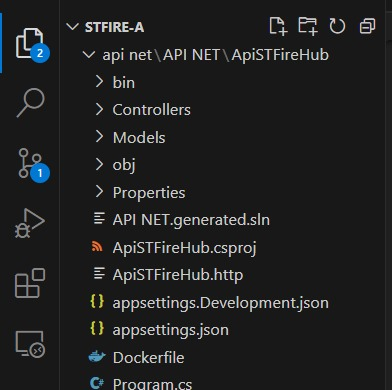
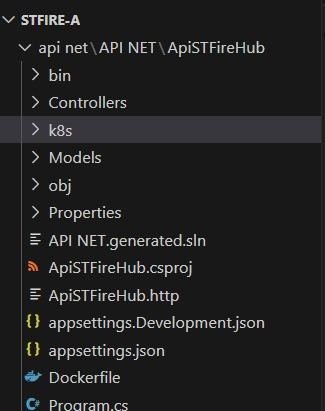
STFireHub Full images api/kubernetess

Changed region(s): [[0.0, 0.0308, 1.0, 0.8], [0.0308, 0.8308, 0.5846, 1.0], [0.0308, 0.5231, 0.1231, 0.8]]

diff --git a/README.md b/README.md
@@ -41,6 +41,7 @@ En el sprint 6 se trabajan con tecnologias como mysql, manejon del framework ang
 Package Pomelo.EntityFrameworkCore.MySql
 Package Microsoft.EntityFrameworkCore.Design
 (install en api antes de comenzar)
+4. En Docker instalar Kubernetes Kubernetes v1.27.2
 
 ## Paquetes de instalacion para api en proyecto:
 - dotnet add package Microsoft.VisualStudio.Web.CodeGeneration.Design
@@ -76,6 +77,11 @@ Para verificar que las rutas que tenemos determinadas por metodos en la API se p
 Imagen creada en Docker, que se ejecuta por medio de la Docker desktop o por medio de la terminal en la api
 ![ST5](./capturas/imagenes/8SP6.jpg)
 ![ST5](./capturas/imagenes/9SP6.jpg)
+
+
+![ST5](./capturas/imagenes/11SP6.jpg)
+Verificar y correr el archivo .yaml que se creo para kubernetes en este caso en la API
+![ST5](./capturas/imagenes/12SP6.jpg)
 
 ![ST5](./capturas/imagenes/5SP6.jpg)
 El sitio debe mostrarse como se había estado trabajando antes y renderiza este templante
